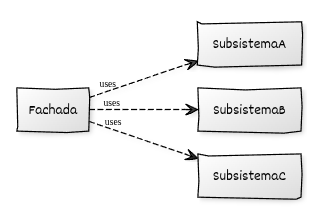
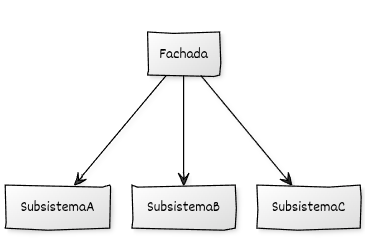
Modulo03

Changed region(s): [[0.0, 0.0849, 0.994, 0.9906], [0.3614, 0.6226, 0.4217, 0.6509]]

diff --git a/contenido/modulo03/facade2.md b/contenido/modulo03/facade2.md
@@ -2,40 +2,18 @@
 
 ## Estructura general
 
-La implementación del **Facade** en C++ moderno permite **simplificar el acceso a un sistema complejo** proporcionando una interfaz única y de alto nivel. El patrón encapsula la interacción entre varios subsistemas y expone al cliente únicamente las operaciones necesarias para su uso habitual.
+La implementación del **Facade** se basa en:
 
-Este enfoque reduce el acoplamiento, mejora la legibilidad del código cliente y protege al sistema frente a cambios internos, manteniendo una interfaz estable y controlada.
-
-## Elementos de C++ moderno utilizados
-
-* **Constructores y listas de inicialización** para crear los subsistemas en estados válidos desde la construcción.
-* **RAII** para gestionar automáticamente los recursos asociados a los subsistemas.
-* **Composición** para agrupar subsistemas dentro de la fachada.
-* **Objetos con duración automática** como miembros de la clase fachada.
-* **Encapsulación** para ocultar la complejidad interna del sistema.
+* Uno o varios **Subsistemas** que exponen operaciones de bajo nivel.
+* Una **clase Fachada** que define las operaciones de uso para el cliente.
+* La **Fachada mantiene los subsistemas por composición** (como miembros, referencias o punteros) y realiza llamadas coordinadas a sus operaciones.
+* Un **código cliente** que utiliza la fachada como punto de acceso al sistema.
 
 ## Componentes del patrón y responsabilidades
 
-### 1. **Subsistemas internos**
-
-* Representan componentes que realizan tareas específicas del sistema.
-* Mantienen responsabilidades claras y bien delimitadas.
-* No están diseñados para ser utilizados directamente por el cliente.
-* Pueden evolucionar internamente sin afectar a la fachada.
-
-### 2. **Clase Fachada**
-
-* Proporciona una interfaz simple y de alto nivel al cliente.
-* Coordina la interacción entre los distintos subsistemas.
-* Encapsula secuencias complejas de operaciones en métodos claros.
-* Aísla al cliente de cambios en la estructura interna del sistema.
-
-### 3. **Código cliente**
-
-* Trabaja exclusivamente con la clase fachada.
-* No conoce ni gestiona los subsistemas internos.
-* Utiliza el sistema de forma más legible y directa.
-* Permanece estable ante modificaciones internas del sistema.
+* **Subsistemas:** proporcionan las operaciones internas que utiliza la fachada para realizar el trabajo.
+* **Fachada:** expone operaciones de alto nivel y coordina llamadas a los subsistemas.
+* **Código cliente:** utiliza la fachada para invocar las operaciones del sistema.
 
 ## Diagrama UML
 
